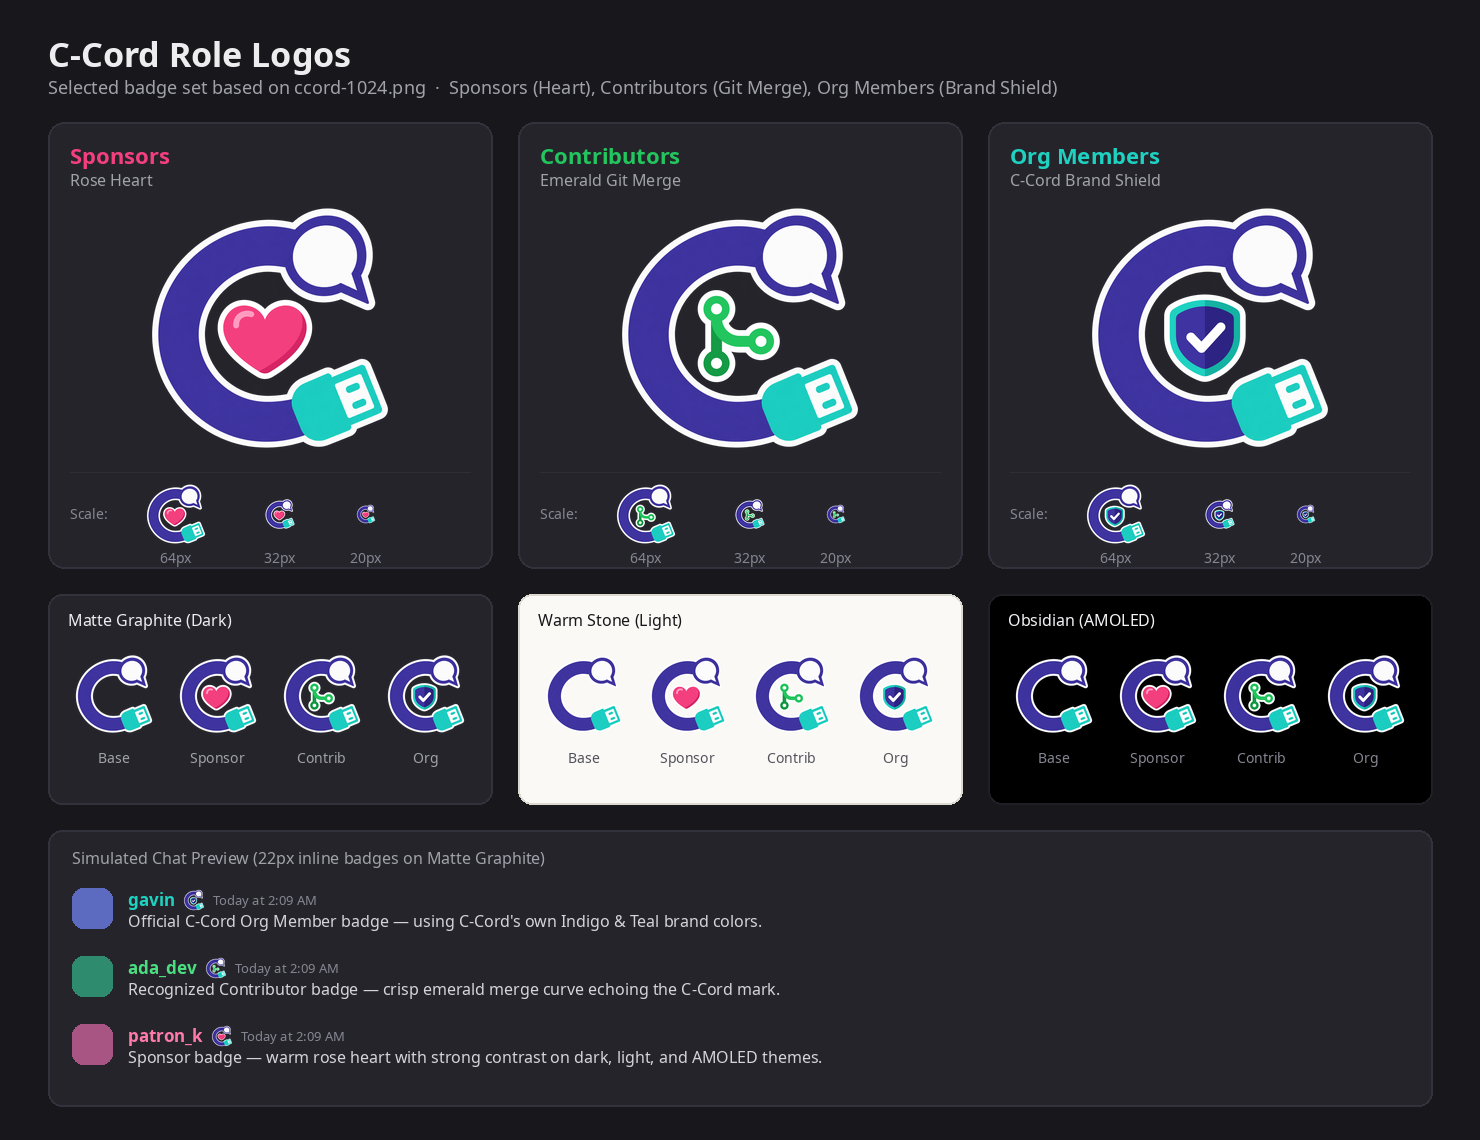
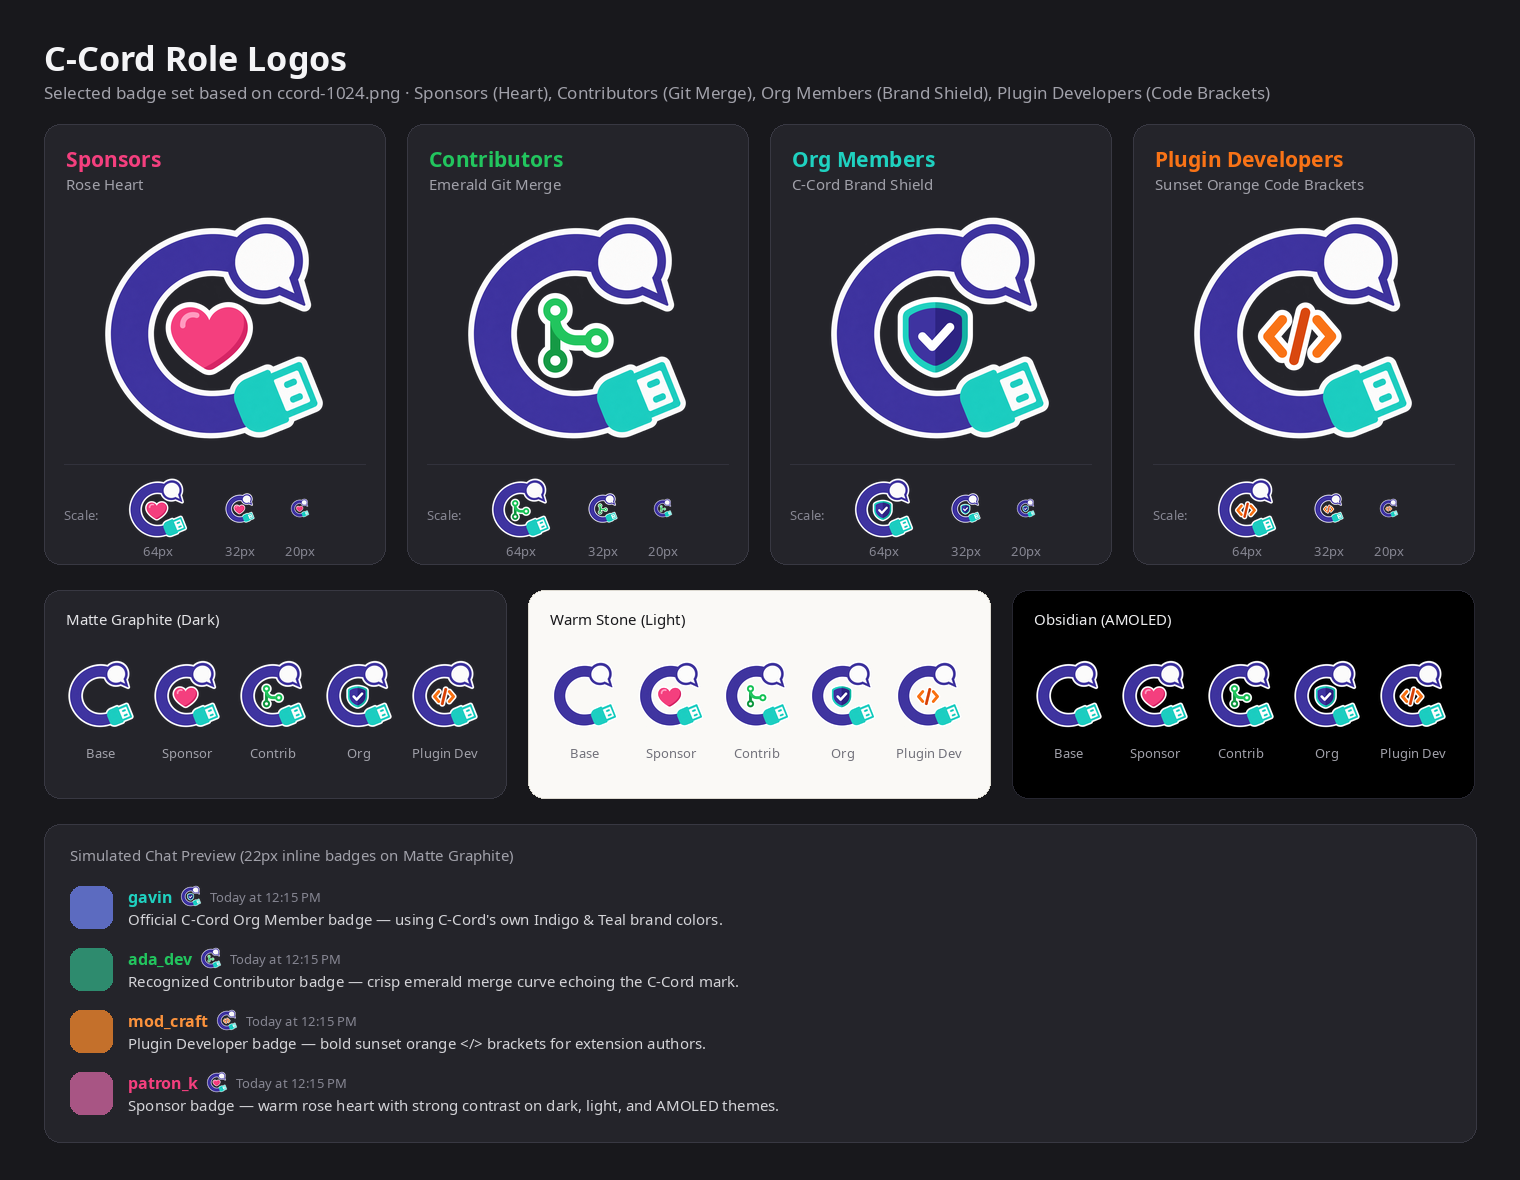
assets: add Plugin Developers badge and remove SVG clipPaths
Add the sunset-orange Plugin Developers role badge PNG, emblem SVG, README entry, and updated preview sheet, and replace <clipPath> blocks in the Org Members and Sponsors emblem SVGs with self-contained path geometry.

diff --git a/assets/badges/README.md b/assets/badges/README.md
@@ -9,5 +9,6 @@ Role logos built on top of [`assets/icons/ccord-1024.png`](../icons/ccord-1024.p
 | **Sponsors** | Rose Heart | `#F43F7E`, `#D62465`, `#FF9BC0` | `ccord-sponsor-1024.png` | `emblems-svg/ccord-sponsor-emblem.svg` |
 | **Contributors** | Emerald Git Merge | `#22C55E`, `#159A45`, `#FFFFFF` | `ccord-contributor-1024.png` | `emblems-svg/ccord-contributor-emblem.svg` |
 | **Org Members** | C-Cord Brand Shield | `#3E33A0`, `#2D2382`, `#1FD1C0`, `#14B2A3`, `#FFFFFF` | `ccord-org-member-1024.png` | `emblems-svg/ccord-org-member-emblem.svg` |
+| **Plugin Developers** | Sunset Orange Code Brackets | `#F97316`, `#D9480F`, `#FFFFFF` | `ccord-plugin-dev-1024.png` | `emblems-svg/ccord-plugin-dev-emblem.svg` |
 
 Background is transparent. See `preview.png` for scale and theme contrast previews.
